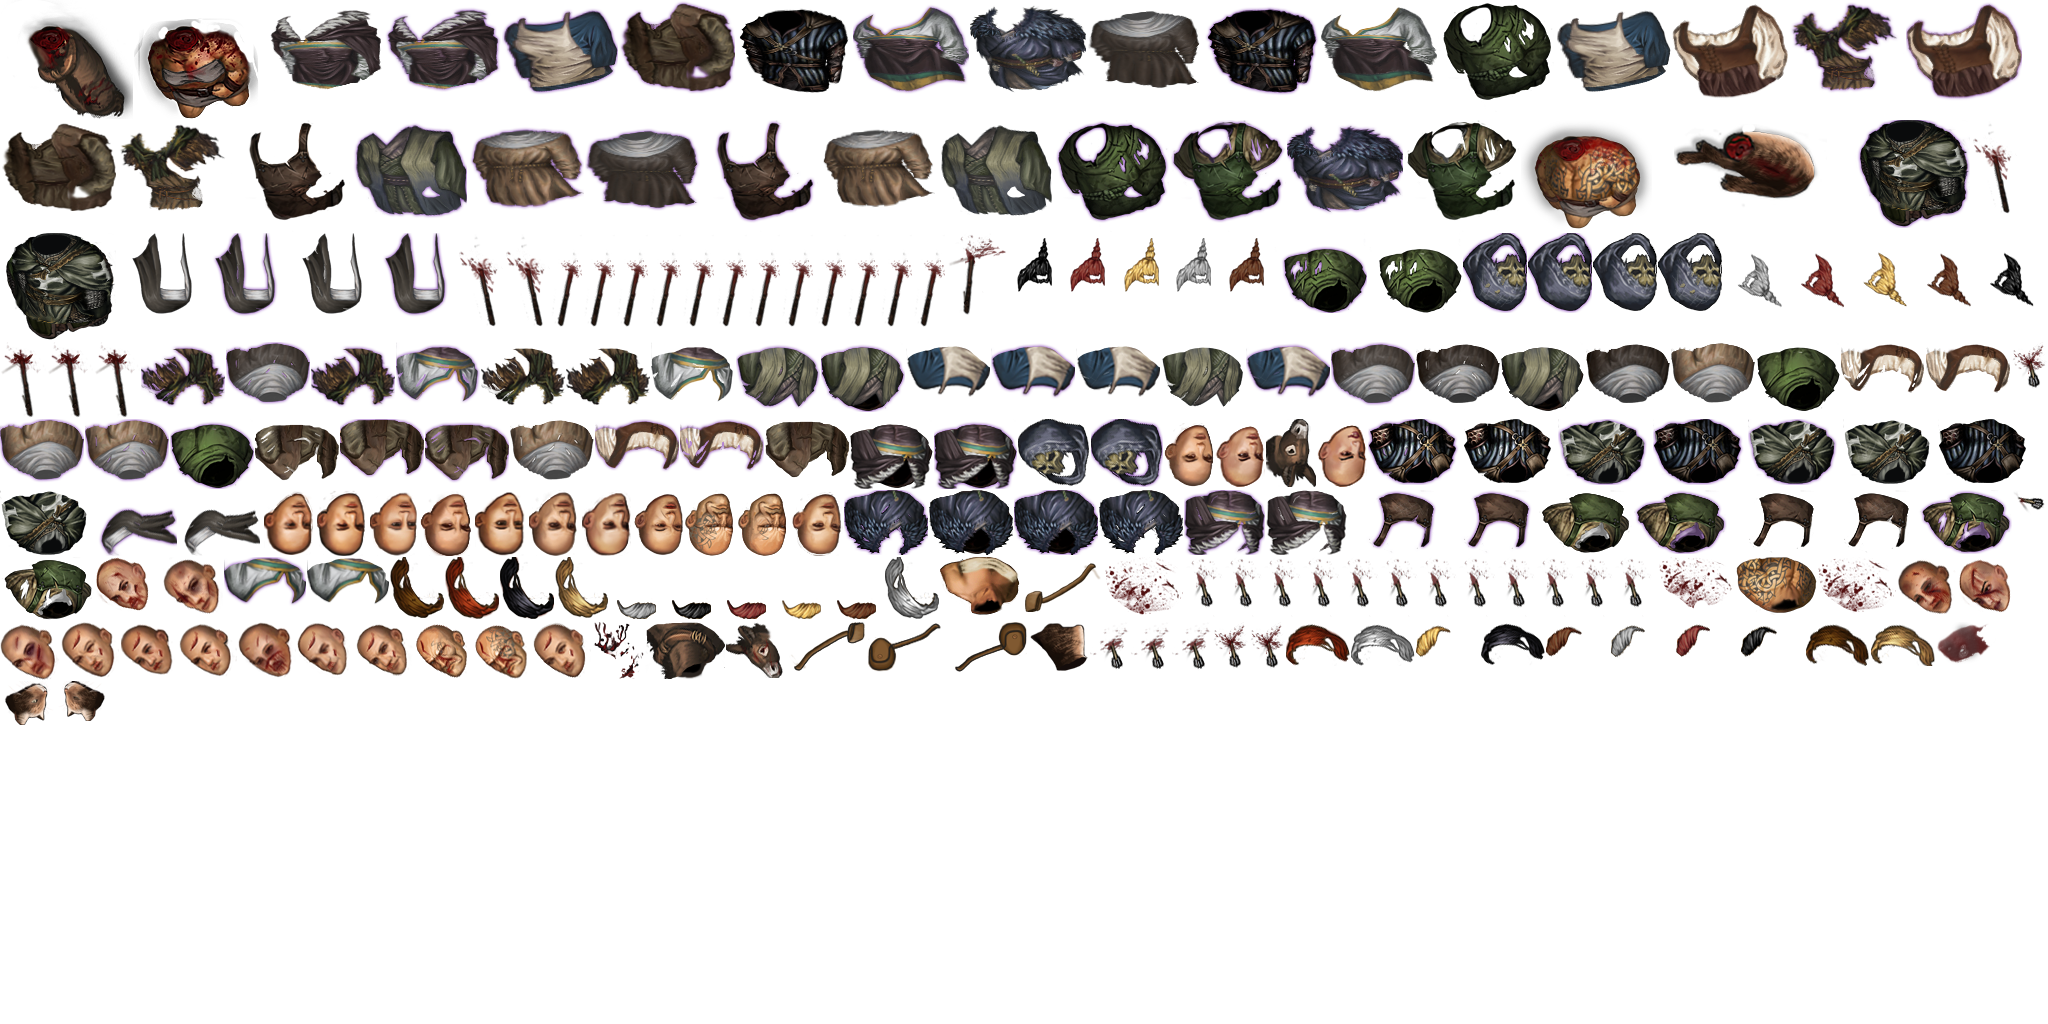
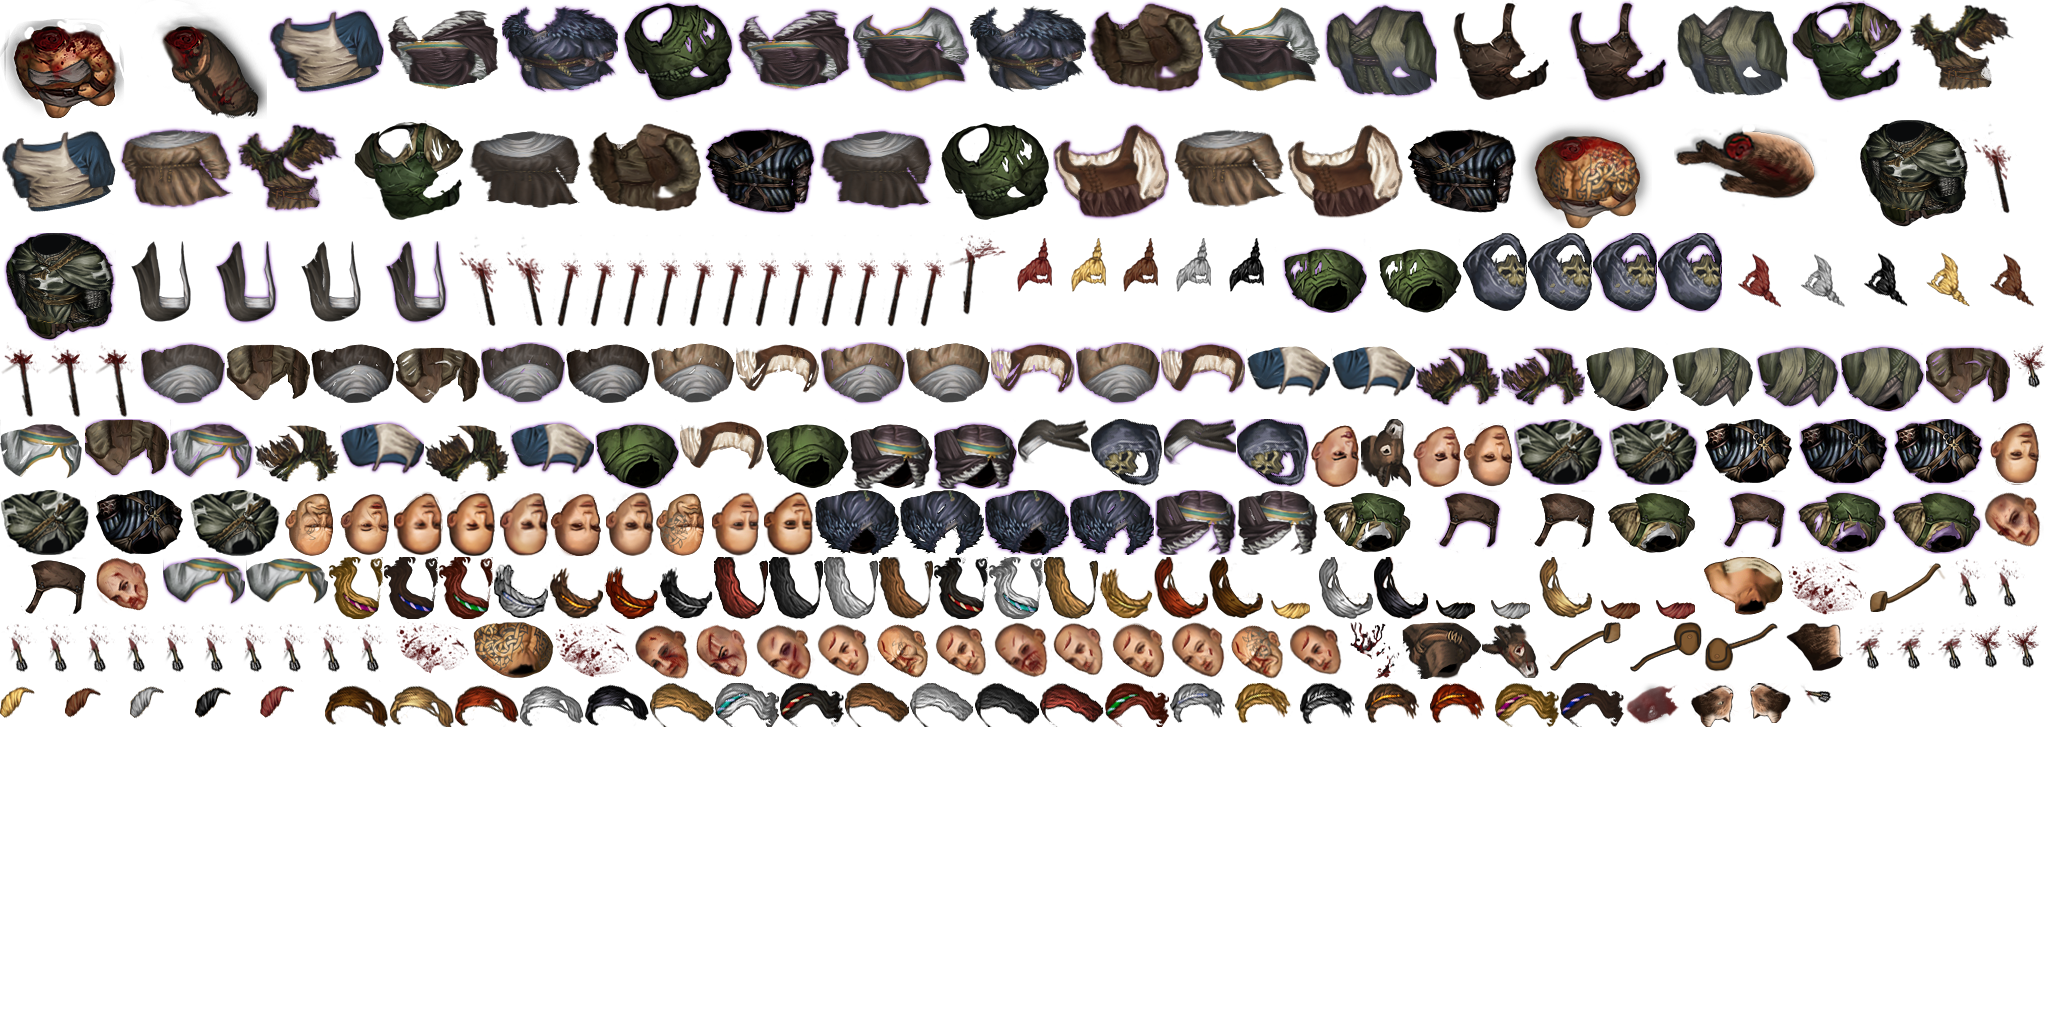
Fixes the nun's habit floating like a moustache. Adds three new female hairstyles. stops women being bald all the time.

diff --git a/ReleaseNotes.md b/ReleaseNotes.md
@@ -486,3 +486,6 @@ https://drive.google.com/open?id=1UGt-_mBDX2-YVzM2mJf8yw8p0D_7lWOj
 *Only Weapons and Armor can be salvaged now
 *Fix Enchant tent rune blueprint tooltips
 *Adds Tent upgrade system - Purchase tents in marketplaces to upgrade camp tent visuals and functionality (Still WIP)
+
+
+adds 3 new female hairstyles, fixes the nun's habit 
